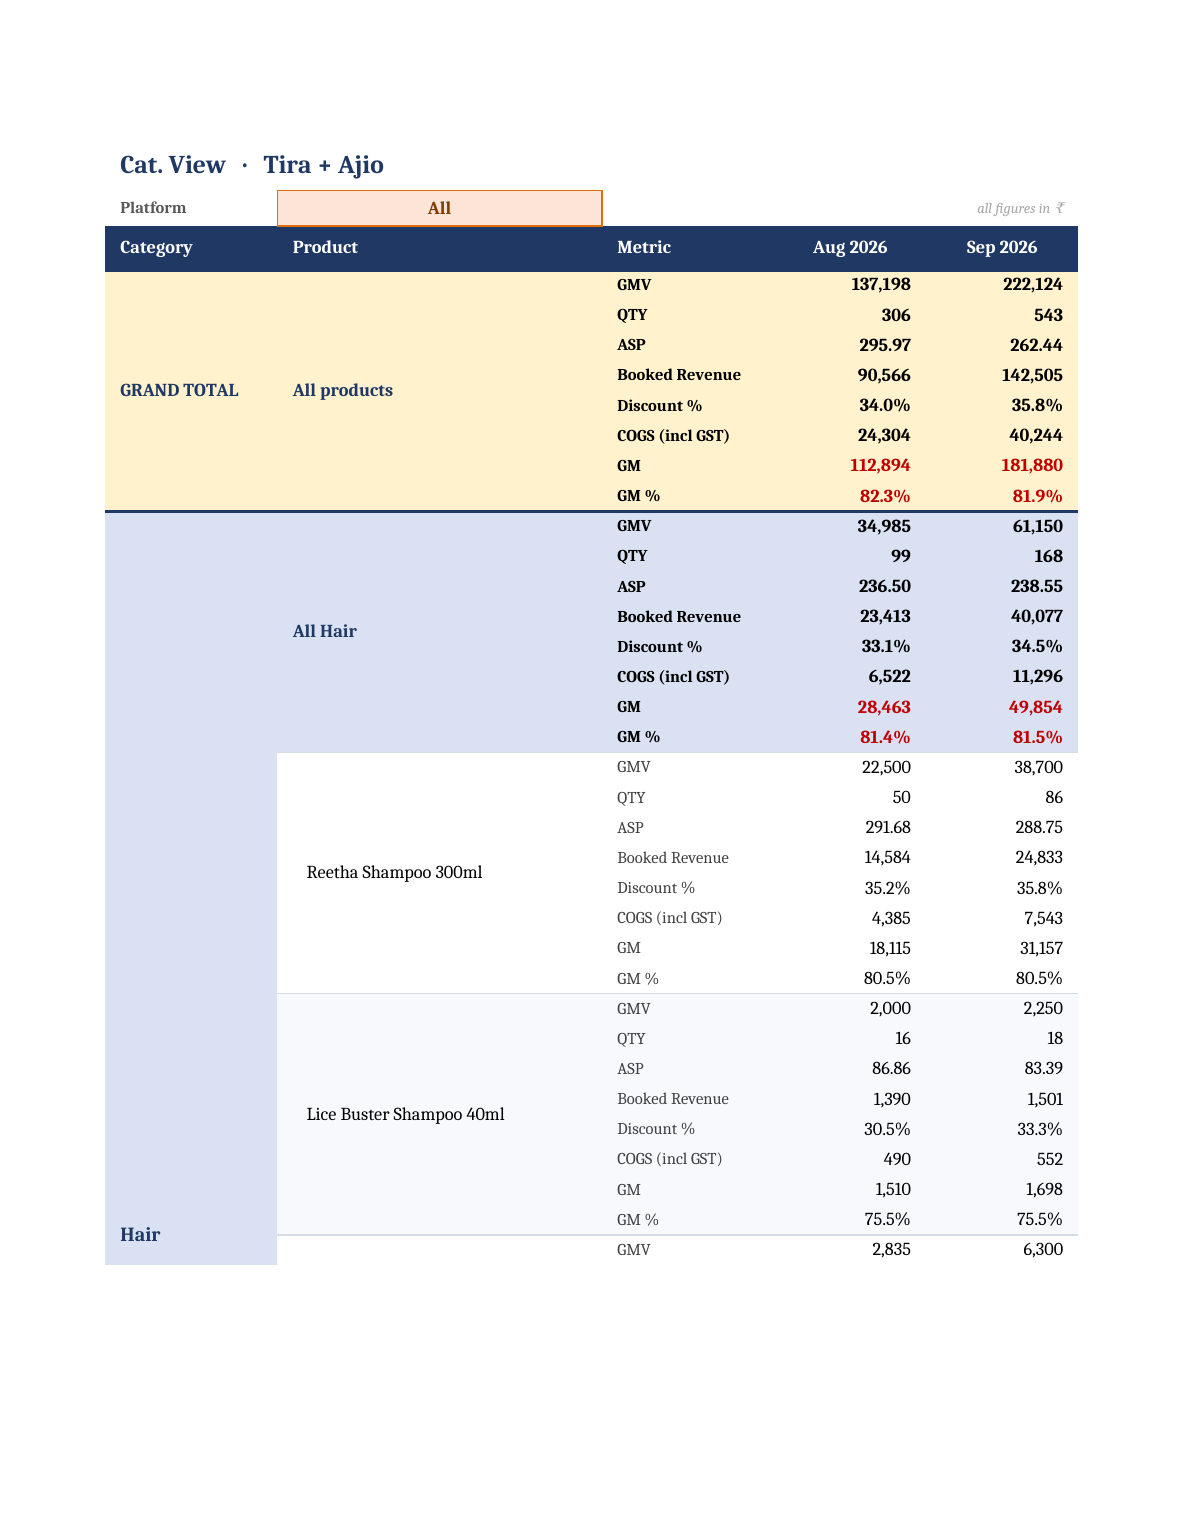
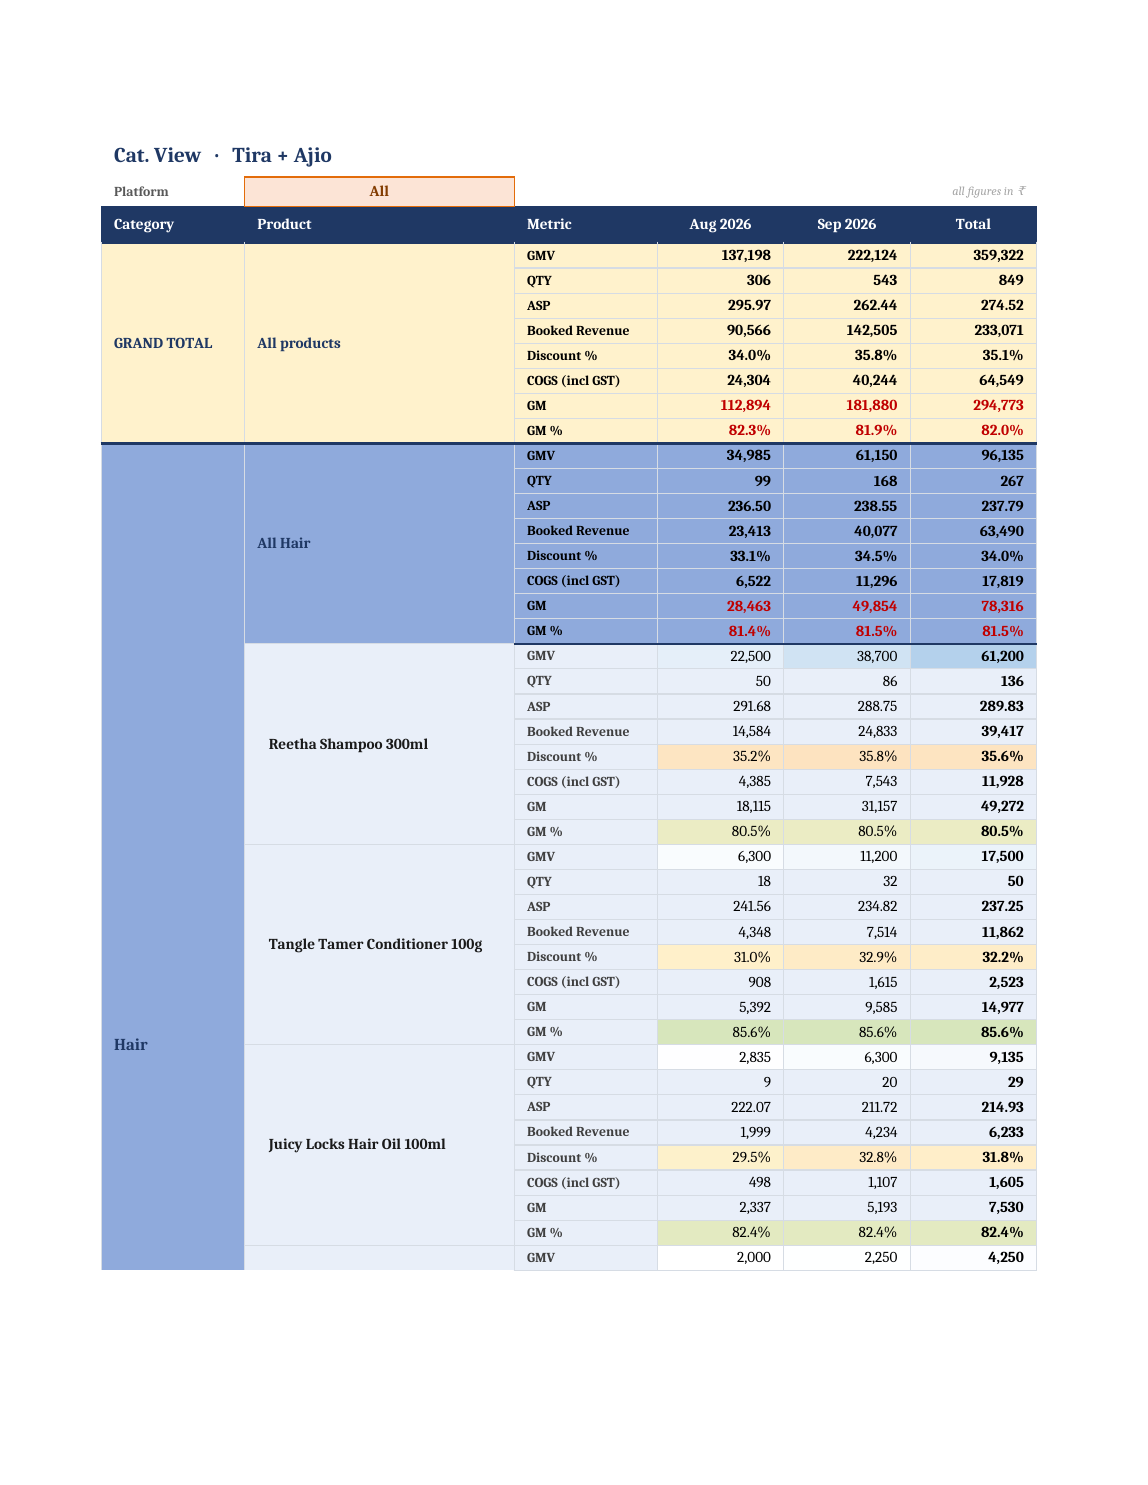
Colour-code the Cat. View by category and add a Total column
- Each category now carries its own colour, strong on the category row and
  as a tint across its products, so sections are separable at a glance.
- Gridlines on, with a full thin border on every cell and a medium rule
  closing each category section.
- All labels bold; the Total column bold and shaded.
- Adds a Total column computed from the dump rather than by summing the
  month cells, so the ratio metrics stay correct: ASP is total booked over
  total qty, Discount % and GM % are recomputed on totals rather than
  averaged.
- Categories are ordered by GMV, and products within each category
  likewise, so the largest lines come first.
- Colour scales on the product rows: GMV by magnitude, GM % green-to-red,
  Discount % reversed so a deep discount reads red.

Verified by recalculation and by rendering two sections to PDF: GMV
359,322.00, QTY 849, booked 233,070.57, COGS 64,548.71, GM 294,773.29, all
matching the dump at zero delta across 7 category blocks, no error cells.

Claude-Session: https://claude.ai/code/session_01A4M5bu55sFM68udeaQpah8

diff --git a/scripts/build_tira_ajio.py b/scripts/build_tira_ajio.py
@@ -3,6 +3,7 @@ from openpyxl import Workbook
 from openpyxl.utils import get_column_letter as L
 from openpyxl.styles import Font, PatternFill, Alignment, Border, Side
 from openpyxl.worksheet.datavalidation import DataValidation
+from openpyxl.formatting.rule import ColorScaleRule
 from openpyxl.utils.cell import quote_sheetname as Q
 
 SEP, AUG, MASTER, COGSF, LBF, OUT = sys.argv[1:7]
@@ -224,7 +225,7 @@ for c,w in zip(["A","B","C","D","E","F","G","H","I","J","K","L","M","N","O","P",
 
 # ================= CAT. VIEW =================
 ws=wb.create_sheet(CV)
-ws.sheet_view.showGridLines=False
+ws.sheet_view.showGridLines=True
 d0,d1=min(r["date"] for r in rows),max(r["date"] for r in rows)
 months=[]
 for r in sorted(rows,key=lambda x:x["date"]):
@@ -233,7 +234,8 @@ for r in sorted(rows,key=lambda x:x["date"]):
 
 CUR, CUR2, PCT2, INT2 = '#,##0', '#,##0.00', '0.0%', '#,##0'
 HR   = 3
-NCOL = 3+len(months)
+NCOL = 3+len(months)+1
+TOTC = NCOL
 PLAT = "$Z$1"
 INK, MUTE, RULE = "1F3864", "595959", "8EA9DB"
 med  = Side(style="medium", color=INK)
@@ -264,7 +266,7 @@ hlp=ws.cell(row=1,column=26,value='=IF($B$2="All","*",$B$2)')
 hlp.font=Font(color="FFFFFF",size=1)
 
 # ---- header row ----
-for i,h in enumerate(["Category","Product","Metric"]+months,1):
+for i,h in enumerate(["Category","Product","Metric"]+months+["Total"],1):
     c=ws.cell(row=HR,column=i,value=h)
     c.fill, c.font = HDR, Font(color="FFFFFF",bold=True,size=10)
     c.alignment=Alignment(horizontal="center" if i>3 else "left",
@@ -273,12 +275,22 @@ for i,h in enumerate(["Category","Product","Metric"]+months,1):
 ws.row_dimensions[HR].height=24
 ws.freeze_panes=ws.cell(row=HR+1,column=4)
 
+CATCOL={
+ "Hair":       ("8FAADC","E9EFF9"), "Face Care": ("B4A7D6","EFEBF8"),
+ "Dull Skin":  ("C9A66B","F4EDE1"), "Lotion":    ("F4B183","FDEFE6"),
+ "Make up":    ("D5A6BD","F7EBF1"), "Mosquito":  ("A3C4BC","ECF4F1"),
+ "Others":     ("BFBFBF","F2F2F2"), "Sanitizer": ("7FD1C1","E6F7F4"),
+ "Shower gel": ("9BC2E6","EAF3FB"), "Soap":      ("A9D08E","EDF6E7"),
+ "Sun":        ("FFD966","FFF6DC"), "Toothpaste":("F6A8B8","FDEBEF"),
+ "Combo":      ("E0B0C0","F9EDF1"),
+}
 METRICS=["GMV","QTY","ASP","Booked Revenue","Discount %","COGS (incl GST)","GM","GM %"]
 NM=len(METRICS)
 FMT={"GMV":CUR,"QTY":INT2,"ASP":CUR2,"Booked Revenue":CUR,"Discount %":PCT2,
      "COGS (incl GST)":CUR,"GM":CUR,"GM %":PCT2}
 DQ=Q(DUMP)
 
+MROW={}
 def emit(r0, kind, keycell, fill, bold, rule_top):
     """One 8-metric block. kind: None=grand total, 'T'=category, 'G'=product."""
     for j,m in enumerate(METRICS):
@@ -287,11 +299,13 @@ def emit(r0, kind, keycell, fill, bold, rule_top):
         S=lambda col: (f'SUMIFS({DQ}!${col}:${col},{DQ}!$S:$S,{L(4)}${HR}'
                        f',{DQ}!$A:$A,{PLAT}{key})')
         mc=ws.cell(row=r,column=3,value=m)
-        mc.font=Font(bold=bold,size=9,color="000000" if bold else "404040")
+        mc.font=Font(bold=True,size=9,color="000000" if bold else "3F3F3F")
         mc.alignment=Alignment(horizontal="left",vertical="center",indent=1)
         for ci in range(4,NCOL+1):
             hc=f"{L(ci)}${HR}"
-            S=lambda col: (f'SUMIFS({DQ}!${col}:${col},{DQ}!$S:$S,{hc}'
+            S=(lambda col: f'SUMIFS({DQ}!${col}:${col},{DQ}!$A:$A,{PLAT}{key})') \
+              if ci==TOTC else \
+              (lambda col: f'SUMIFS({DQ}!${col}:${col},{DQ}!$S:$S,{hc}'
                            f',{DQ}!$A:$A,{PLAT}{key})')
             if   m=="GMV":             f=f'=IFERROR(IF({S("N")}=0,"",{S("N")}),"")'
             elif m=="QTY":             f=f'=IFERROR(IF({S("L")}=0,"",{S("L")}),"")'
@@ -304,27 +318,38 @@ def emit(r0, kind, keycell, fill, bold, rule_top):
             c=ws.cell(row=r,column=ci,value=f)
             c.number_format=FMT[m]
             c.alignment=Alignment(horizontal="right",vertical="center",indent=1)
-            c.font=Font(bold=bold,size=10,
+            c.font=Font(bold=bold or ci==TOTC, size=10,
                         color="C00000" if m in ("GM","GM %") and bold else "000000")
+            if ci==TOTC and not fill:
+                c.fill=PatternFill("solid",fgColor="F2F5FA")
+            if ci==TOTC: c.font=Font(bold=True,size=10,
+                color="C00000" if m in ("GM","GM %") and bold else "000000")
         for ci in range(1,NCOL+1):
-            cell=ws.cell(row=ci and r or r,column=ci)
+            cell=ws.cell(row=r,column=ci)
             if fill: cell.fill=fill
-            b={}
-            if rule_top and j==0: b["top"]=med
-            if j==NM-1:           b["bottom"]=hair
-            if b: cell.border=Border(**b)
+            cell.border=Border(left=hair, right=hair,
+                               top=(med if (rule_top and j==0) else hair),
+                               bottom=(med if (rule_top and j==NM-1) else hair))
         ws.row_dimensions[r].height=17
+        if not bold: MROW.setdefault(m,[]).append(r)
     return r0+NM
 
 def label(col,r0,span,text,bold,size,fill,indent):
     ws.merge_cells(start_row=r0,start_column=col,end_row=r0+span-1,end_column=col)
     c=ws.cell(row=r0,column=col,value=text)
-    c.font=Font(bold=bold,size=size,color=INK if bold else "000000")
+    c.font=Font(bold=True,size=size,color=INK if bold else "1A1A1A")
     c.alignment=Alignment(horizontal="left",vertical="center",wrap_text=True,indent=indent)
     if fill:
         for rr in range(r0,r0+span): ws.cell(row=rr,column=col).fill=fill
 
 sold={r["sap"] for r in rows}
+gmv_by_sap={}
+for _r in rows:
+    _m=next((m for m in master if m[1]==_r["sap"]), None)
+    if _m and _m[3]: gmv_by_sap[_r["sap"]]=gmv_by_sap.get(_r["sap"],0)+_r["qty"]*_m[3]
+cat_gmv={}
+for _sp,_v in gmv_by_sap.items():
+    _c=TAX.get(_sp,("","",""))[1]; cat_gmv[_c]=cat_gmv.get(_c,0)+_v
 r=HR+1
 # grand total
 emit(r,None,None,TOT,True,True)
@@ -333,21 +358,39 @@ label(2,r,NM,"All products",True,10,TOT,1)
 r+=NM
 # per category
 alt=False
-for cat in [c for c in CATS if any(TAX.get(s,("","",""))[1]==c for s in sold)]:
-    mem=[s for s in sorted(sold,key=lambda x:order.get(x,999))
-         if TAX.get(s,("","",""))[1]==cat]
+for cat in sorted([c for c in CATS if any(TAX.get(s,("","",""))[1]==c for s in sold)],
+                  key=lambda c: -cat_gmv.get(c,0)):
+    mem=[s for s in sold if TAX.get(s,("","",""))[1]==cat]
+    mem.sort(key=lambda sp: -gmv_by_sap.get(sp,0))
+    strong,tint=CATCOL.get(cat,("8FAADC","E9EFF9"))
+    CFILL=PatternFill("solid",fgColor=strong)
+    TFILL=PatternFill("solid",fgColor=tint)
     sec=r; span=NM*(1+len(mem))
-    emit(r,"T",f"$A${r}",SUB,True,True)
-    label(2,r,NM,"All "+cat,True,10,SUB,1)
+    emit(r,"T",f"$A${r}",CFILL,True,True)
+    label(2,r,NM,"All "+cat,True,10,CFILL,1)
     r+=NM
-    for sidx,sp in enumerate(mem):
-        band=PatternFill("solid",fgColor="F7F9FC") if sidx%2 else None
-        emit(r,"G",f"$B${r}",band,False,False)
-        label(2,r,NM,TAX[sp][0],False,10,band,2)
+    for sp in mem:
+        emit(r,"G",f"$B${r}",TFILL,False,False)
+        label(2,r,NM,TAX[sp][0],False,10,TFILL,2)
         r+=NM
     label(1,sec,span,cat,True,11,None,1)
-    ws.cell(row=sec,column=1).fill=SUB
+    for rr in range(sec,sec+span): ws.cell(row=rr,column=1).fill=CFILL
 LC=r-1
+def rng(metric):
+    return " ".join(f"{L(4)}{x}:{L(TOTC)}{x}" for x in MROW.get(metric,[]))
+if MROW.get("GMV"):
+    ws.conditional_formatting.add(rng("GMV"), ColorScaleRule(
+        start_type="min", start_color="FFFFFF", end_type="max", end_color="9DC3E6"))
+if MROW.get("GM %"):
+    ws.conditional_formatting.add(rng("GM %"), ColorScaleRule(
+        start_type="num", start_value=0.5,  start_color="F8CBAD",
+        mid_type="num",   mid_value=0.75,   mid_color="FFF2CC",
+        end_type="num",   end_value=0.9,    end_color="C6E0B4"))
+if MROW.get("Discount %"):
+    ws.conditional_formatting.add(rng("Discount %"), ColorScaleRule(
+        start_type="num", start_value=0.15, start_color="C6E0B4",
+        mid_type="num",   mid_value=0.30,   mid_color="FFF2CC",
+        end_type="num",   end_value=0.45,   end_color="F8CBAD"))
 for c,w in zip(["A","B","C"],(17,32,17)): ws.column_dimensions[c].width=w
 for ci in range(4,NCOL+1): ws.column_dimensions[L(ci)].width=15
 

diff --git a/README.md b/README.md
@@ -30,7 +30,7 @@ It is not committed — it carries pricing.
 | `TIRA AJIO MAPPER` | One row per SKU: SAP + LB + internal SKU ID, category, MRP, landing rate, COGS, SOH |
 | `SOH Tira Ajio` | Aug vs Sep stock on hand with movement |
 | `Tira Ajio Sales Dump` | Merged Tira + Ajio line items, normalised to one schema |
-| `Cat.View Tira Ajio` | GMV / QTY / ASP / Booked Revenue / Discount % / COGS / GM / GM% by month |
+| `Cat.View Tira Ajio` | GMV / QTY / ASP / Booked Revenue / Discount % / COGS / GM / GM% by month, plus a Total column. Categories are colour-coded and ordered by GMV, products within them likewise. |
 
 ## Join key
 
